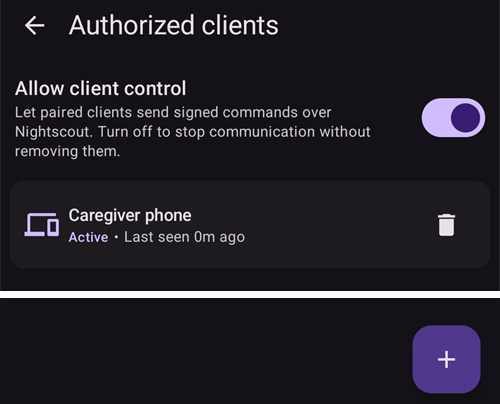
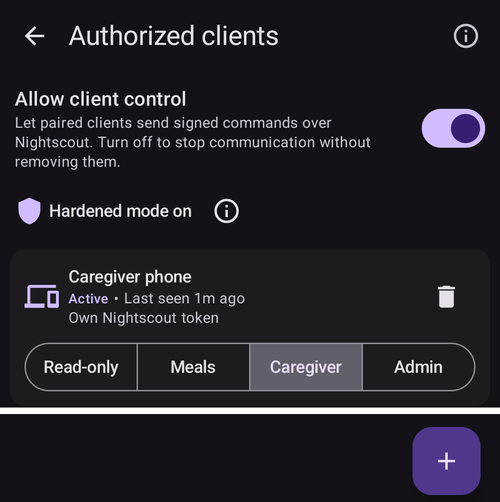
Updated AAPSClient pairing

diff --git a/docs/EN/RemoteFeatures/ClientMasterControl.md b/docs/EN/RemoteFeatures/ClientMasterControl.md
@@ -84,10 +84,7 @@ Tap the **+** button (bottom right) to add a client. In the **New client** dialo
 2. Choose **how the phone is set up** (see the table below).
 3. Choose its **[role](#client-master-control-roles)**. Nothing is selected for you: the right role depends on who uses the phone.
 
-<!-- 📷 SCREENSHOT NEEDED: the New client dialog on the master with the three ways
-     (QR code: Nightscout and pairing / QR code: Nightscout only / PIN) and the role row.
-     Replaces new_client_master.png, which shows the older dialog with the name only. -->
-![New client dialog on the master: enter a name for the client device](../images/v4/ClientMaster/new_client_master.png)
+![New client dialog on the master: device name, how the phone is set up, and its role](../images/v4/ClientMaster/new_client_master.png)
 
 | Way | What the new phone gets | Use it when |
 |---|---|---|
@@ -106,8 +103,7 @@ Tap **OK**: the master makes the client's Nightscout token and shows a **QR code
 Anyone who sees the QR code can read your Nightscout, and a code that pairs also carries the pairing. Show it only to the new phone. **AAPS** blocks screenshots while the code is on screen.
 ```
 
-<!-- 📷 SCREENSHOT NEEDED (optional): cannot be taken from the phone, because AAPS blocks
-     screenshots of the QR code. A photo of the screen with a blurred code would do. -->
+![The master's QR code screen with its countdown (code blurred)](../images/v4/ClientMaster/qr_code_master.png)
 
 #### With a PIN
 
@@ -134,8 +130,7 @@ The first time, **AAPSClient** asks for the **camera** permission. If you refuse
 
 Point the camera at the code. The client shows what the code does — the Nightscout address and, for a code that pairs, the master it pairs with — and asks "**Use this code?**". Tap **Use**: the client turns on **NSClientV3**, replaces its Nightscout address and token with the ones from the code and turns on websockets. A code that pairs also pairs the phone; it says hello to the master as soon as it has connected to Nightscout.
 
-<!-- 📷 SCREENSHOT NEEDED: the client's "Set up from the master" wizard step, and the
-     "Use this code?" confirmation on the client. -->
+![The client's Set up from the master wizard step](../images/v4/AapsClient/aapsclient_wizard_from_master.png)
 
 ```{admonition} Scanning is available on Android
 :class: note
@@ -165,8 +160,7 @@ From the master's **Authorized clients** screen you can, at any time:
 
 Phones set up with **QR code: Nightscout only** are listed below the clients, under "**Read Nightscout only**". For each of them you can show the QR code again (to set up the same phone again) or delete its token, which ends its access to your Nightscout.
 
-<!-- 📷 SCREENSHOT NEEDED: the Authorized clients list with a client card showing its role
-     buttons and "Own Nightscout token", and the "Read Nightscout only" section below it. -->
+![Authorized clients with a paired client (role buttons, own Nightscout token) and a phone under Read Nightscout only](../images/v4/ClientMaster/authorized_clients_roles.png)
 
 ---
 
@@ -365,14 +359,13 @@ For Nightscout / synchronization problems first see [Troubleshooting NSClient](.
 <!-- =====================================================================
      SCREENSHOTS STILL TO ADD:
        1. (optional) Wear OS confirmation relayed from the master
-       2. master: New client dialog with the three ways and the role row (replaces new_client_master.png)
-       3. master: Authorized clients list with role buttons, "Own Nightscout token" and "Read Nightscout only"
-       4. client: "Set up from the master" wizard step and the "Use this code?" confirmation
-       (The QR code screen itself cannot be captured: AAPS blocks screenshots there.)
      Already included:
-       - authorized_clients_master.png       (master: Authorized clients list, Active client)
+       - authorized_clients_master.png       (master: Allow client control, hardened mode, client card, + button)
+       - authorized_clients_roles.png        (master: client card with roles, Read Nightscout only section)
+       - new_client_master.png               (master: New client dialog, three ways and role row)
+       - qr_code_master.png                  (master: pairing QR code with countdown, code blurred; console screenshot)
+       - aapsclient_wizard_from_master.png   (client: Set up from the master wizard step)
        - pair_with_master_unpaired.png       (client: pairing screen, unpaired PIN entry)
-       - new_client_master.png               (master: New client name dialog)
        - pairing_pin_master.png              (master: one-time pairing PIN — expired demo PIN)
        - pair_with_master_client.png         (client: pairing screen, paired state)
        - confirmation_master_authored.png    (client: master-authored scene confirmation)

diff --git a/docs/EN/RemoteFeatures/AapsClient.md b/docs/EN/RemoteFeatures/AapsClient.md
@@ -45,7 +45,7 @@ On first start **AAPSClient** runs the same **Setup Wizard** you know from **AAP
 2. The client does **not** ask for **units** or the **low/high marks**: it takes them from the main phone as soon as it is connected to Nightscout. You can see them later in **Settings**, where a small **phone icon** shows that they are [synchronized with the main phone](#client-master-config-prefs). They can only be edited while the master is reachable.
 3. **Set up from the master** — on the master, open **Manage → Authorized clients**, add this phone with a **QR code** and tap **Scan the QR code** here. One scan sets up Nightscout with a token of this phone's own and, with a code that pairs, also pairs the phone. The phone also takes the name it was added with on the master as its instance name (letters with accents become plain letters, "Miloš" becomes "Milos"). **After the scan, the setup is finished**: the wizard closes, because the next steps would only show what the code did. Without a QR code, skip this step. (Android only: the scanner is not available on iOS yet.)
 
-   <!-- 📷 SCREENSHOT NEEDED: the "Set up from the master" step on the client. -->
+   ![The Set up from the master step with the Scan the QR code button](../images/v4/AapsClient/aapsclient_wizard_from_master.png)
 
 4. **Communication** — the plugin list only offers what a follower needs (NSClientV3, xDrip+, Wear, External Companion Apps, Garmin). If you did not scan a QR code, enable **NSClientV3** and enter the **same Nightscout URL** as on the main phone and an access token, with **websockets** enabled — exactly as described in [Synchronization](#RemoteControl_aapsclient).
 
@@ -68,12 +68,9 @@ On the **master**, open **Manage → Authorized clients** and add a client. Ther
 
 ![Confirmation on the client before completing the pairing](../images/v4/AapsClient/aapsclient_pair_confirm.png)
 
-From the wizard, a successful pairing finishes the setup and opens the home screen. On the master the client appears as **Active** in the [Authorized clients](#client_master_master_setup) list. Paired from **Manage → Pair with master**, the screen shows "*Paired with a master*" and the phone's role:
+From the wizard, a successful pairing finishes the setup and opens the home screen. On the master the client appears as **Active** in the [Authorized clients](#client_master_master_setup) list. Afterwards, **Manage → Pair with master** shows "*Already paired*", the phone's role and whether hardened mode is on:
 
-<!-- 📷 SCREENSHOT NEEDED: Manage → Pair with master after pairing. The image below is the wizard step, which the wizard
-     no longer shows after a pairing (it closes). -->
-
-![The client after successful pairing](../images/v4/AapsClient/aapsclient_wizard_paired.png) The full pairing procedure, security details and troubleshooting are on [Master ↔ Client control](#client_master_client_setup).
+![Manage → Pair with master on a paired client: Already paired, Role: Caregiver, Hardened mode on](../images/v4/ClientMaster/pair_with_master_client.png) The full pairing procedure, security details and troubleshooting are on [Master ↔ Client control](#client_master_client_setup).
 
 After pairing, the client gets a Nightscout token of its own from the master (if the master has an admin token), with only the rights a client needs, and stops using the token you may have entered. **AAPSClient** never writes treatments or BG to Nightscout itself: everything it does is sent to the master, which writes it. See [The client's own Nightscout token](#client-master-control-own-token).
 
